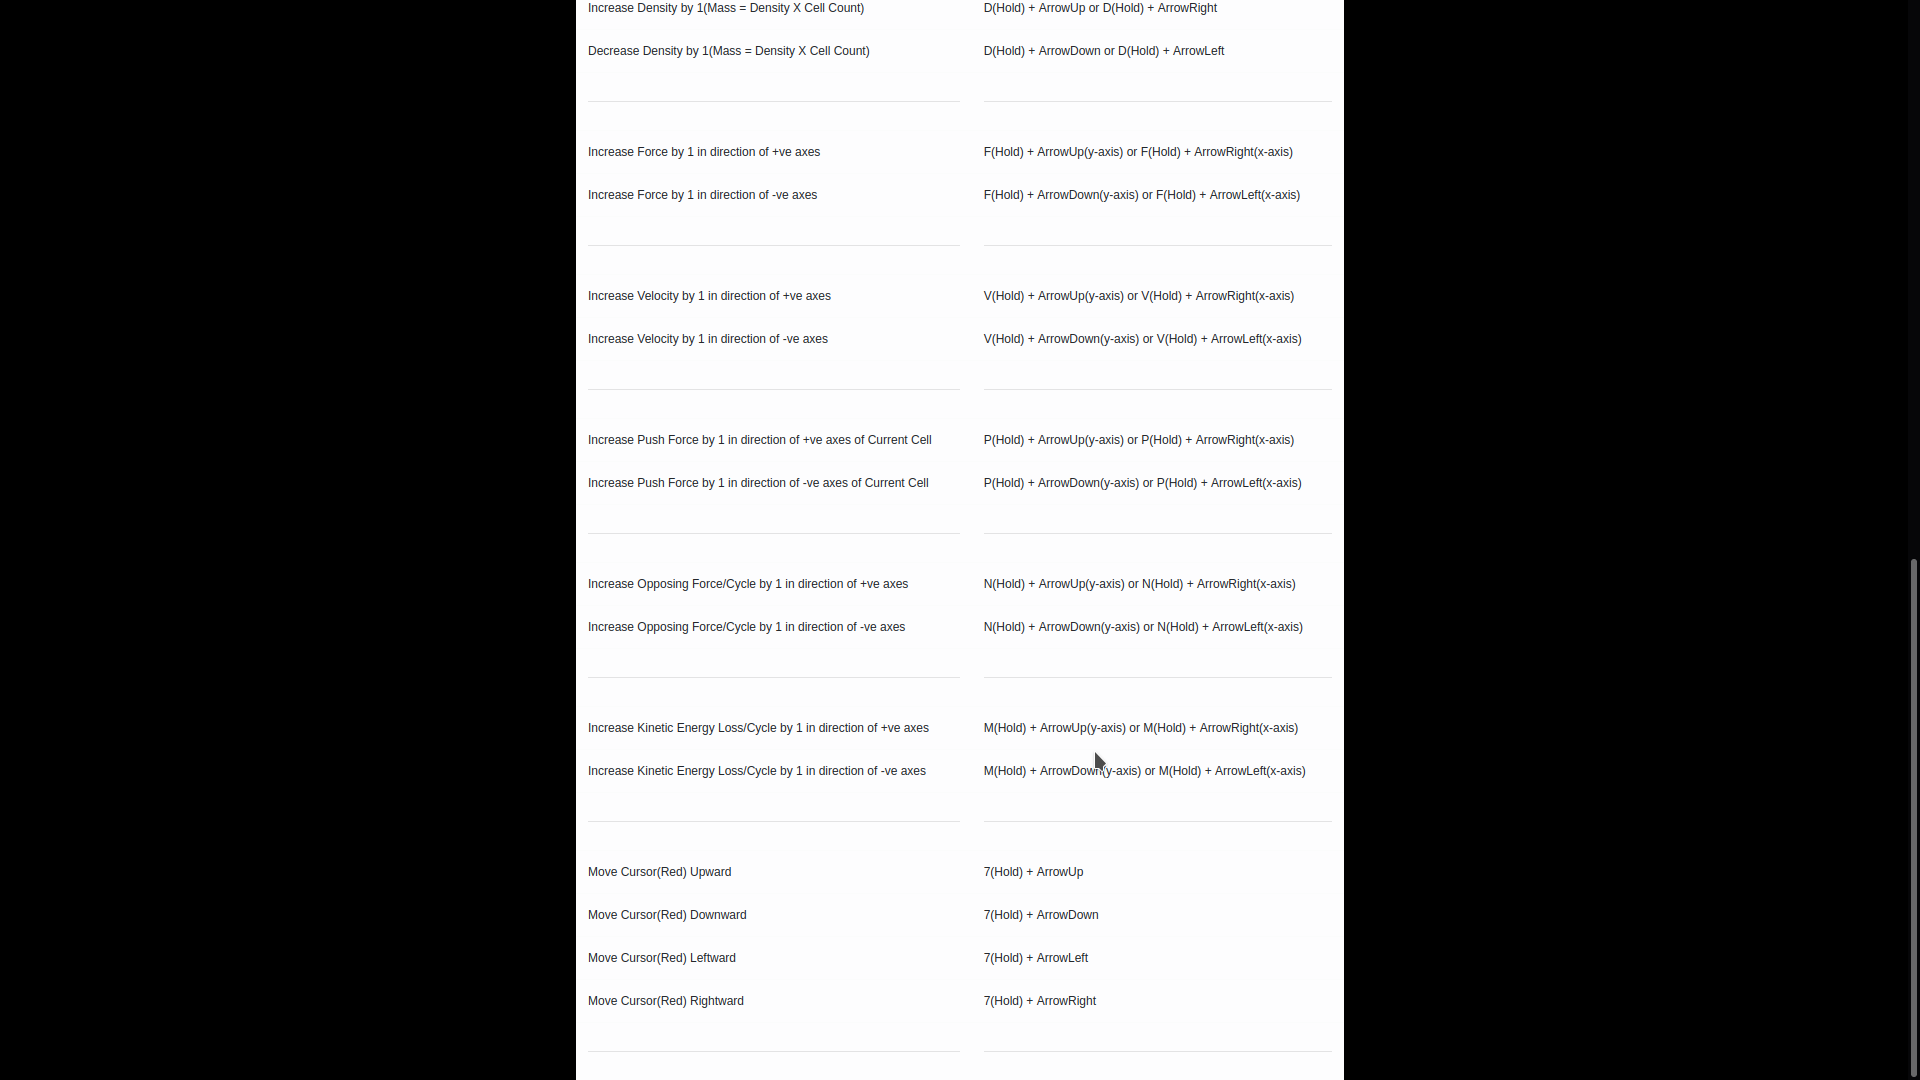
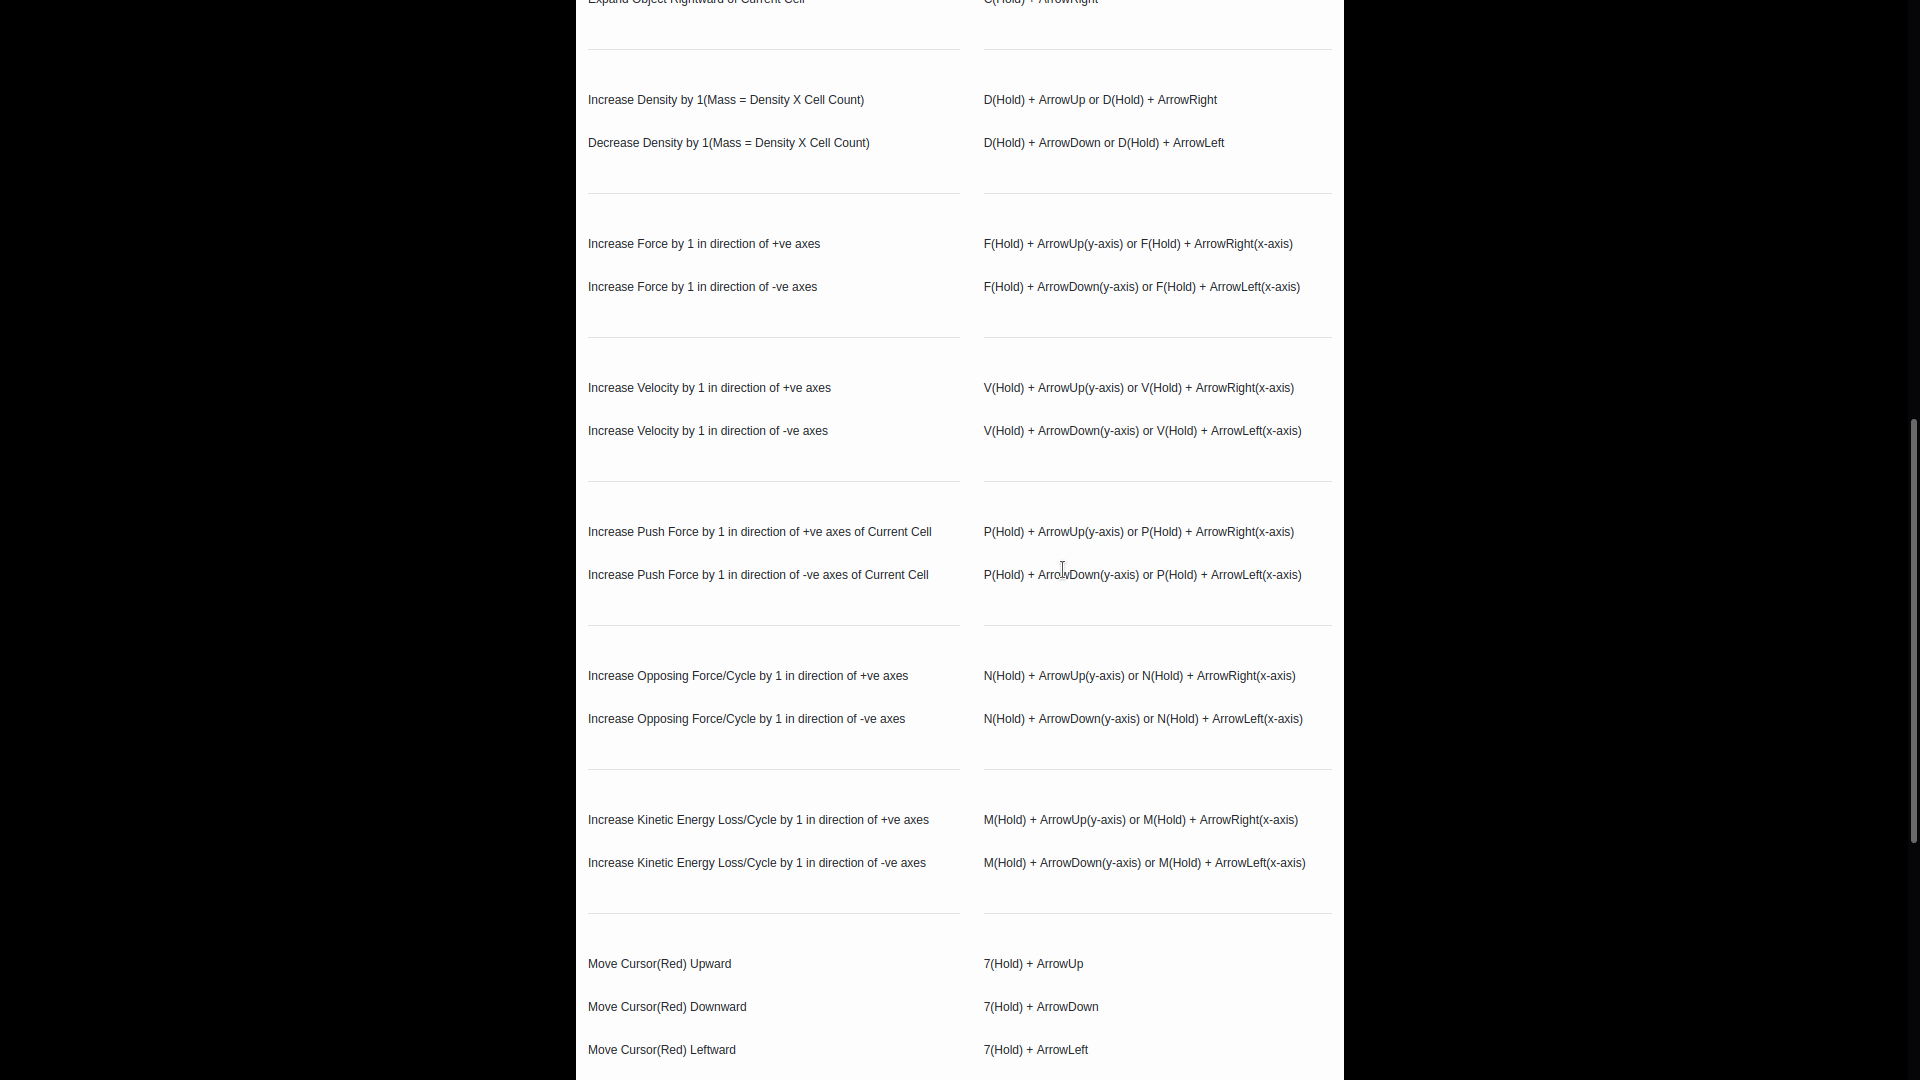
update

diff --git a/src/object.js b/src/object.js
@@ -176,13 +176,24 @@ var collisionBottom = (grid, objectList, key) => {
     objectList[grid[key].objectId].collisionList.bottom = collision
 }
 
-var addCell = (grid, objectId, futureKey, pushX, pushY, color) => {
+var addCell = (grid, objectId, futureKey, pushX, pushY, color, produce, destroy) => {
     if (grid[futureKey].color == "#000000") {
         grid[futureKey].color = color
         grid[futureKey].type = "object"
         grid[futureKey].objectId = objectId
+
         grid[futureKey].pushX = pushX
         grid[futureKey].pushY = pushY
+
+        grid[futureKey].produceLeft = produce.produceLeft
+        grid[futureKey].produceRight = produce.produceRight
+        grid[futureKey].produceTop = produce.produceTop
+        grid[futureKey].produceBottom = produce.produceBottom
+
+        grid[futureKey].destroyLeft = destroy.destroyLeft
+        grid[futureKey].destroyRight = destroy.destroyRight
+        grid[futureKey].destroyTop = destroy.destroyTop
+        grid[futureKey].destroyBottom = destroy.destroyBottom
     }
 }
 
@@ -190,8 +201,19 @@ var removeCell = (grid, currentKey) => {
     grid[currentKey].color = "#000000"
     grid[currentKey].type = "empty"
     grid[currentKey].objectId = "-1"
+
     grid[currentKey].pushX = 0
     grid[currentKey].pushY = 0
+
+    grid[currentKey].produceLeft = false
+    grid[currentKey].produceRight = false
+    grid[currentKey].produceTop = false
+    grid[currentKey].produceBottom = false
+
+    grid[currentKey].destroyLeft = false
+    grid[currentKey].destroyRight = false
+    grid[currentKey].destroyTop = false
+    grid[currentKey].destroyBottom = false
 }
 
 var forceLeft = (grid, objectList, key) => {
@@ -259,6 +281,8 @@ var moveLeft = (grid, objectList, key) => {
     var pushX = { "-1": "-1" }
     var pushY = { "-1": "-1" }
     var color = { "-1": "-1" }
+    var produce = { "-1": "-1" }
+    var destroy = { "-1": "-1" }
 
     objectList[objectId].cellList.map((cellKey) => {
         rowStart = computeCircularRow((Math.floor(parseInt(cellKey) / computeNumber)) * computeNumber)
@@ -269,13 +293,25 @@ var moveLeft = (grid, objectList, key) => {
         pushX[futureKey] = grid[cellKey].pushX
         pushY[futureKey] = grid[cellKey].pushY
         color[futureKey] = grid[cellKey].color
+        produce[futureKey] = {
+            produceLeft: grid[cellKey].produceLeft,
+            produceRight: grid[cellKey].produceRight,
+            produceTop: grid[cellKey].produceTop,
+            produceBottom: grid[cellKey].produceBottom,
+        }
+        destroy[futureKey] = {
+            destroyLeft: grid[cellKey].destroyLeft,
+            destroyRight: grid[cellKey].destroyRight,
+            destroyTop: grid[cellKey].destroyTop,
+            destroyBottom: grid[cellKey].destroyBottom,
+        }
         removeCell(grid, cellKey)
     })
 
     objectList[objectId].cellList = newCellList
   
     objectList[objectId].cellList.map((cellKey) => {
-        addCell(grid, objectId, cellKey, pushX[cellKey], pushY[cellKey], color[cellKey])
+        addCell(grid, objectId, cellKey, pushX[cellKey], pushY[cellKey], color[cellKey], produce[cellKey], destroy[cellKey])
     })
 
     delete objectList[key]
@@ -299,6 +335,8 @@ var moveRight = (grid, objectList, key) => {
     var pushX = { "-1": "-1" }
     var pushY = { "-1": "-1" }
     var color = { "-1": "-1" }
+    var produce = { "-1": "-1" }
+    var destroy = { "-1": "-1" }
 
     objectList[objectId].cellList.map((cellKey) => {
         rowStart = computeCircularRow((Math.floor(parseInt(cellKey) / computeNumber)) * computeNumber)
@@ -308,6 +346,18 @@ var moveRight = (grid, objectList, key) => {
         pushX[futureKey] = grid[cellKey].pushX
         pushY[futureKey] = grid[cellKey].pushY
         color[futureKey] = grid[cellKey].color
+        produce[futureKey] = {
+            produceLeft: grid[cellKey].produceLeft,
+            produceRight: grid[cellKey].produceRight,
+            produceTop: grid[cellKey].produceTop,
+            produceBottom: grid[cellKey].produceBottom,
+        }
+        destroy[futureKey] = {
+            destroyLeft: grid[cellKey].destroyLeft,
+            destroyRight: grid[cellKey].destroyRight,
+            destroyTop: grid[cellKey].destroyTop,
+            destroyBottom: grid[cellKey].destroyBottom,
+        }
         newCellList.push(futureKey)
         removeCell(grid, cellKey)
     })
@@ -315,7 +365,7 @@ var moveRight = (grid, objectList, key) => {
     objectList[objectId].cellList = newCellList
 
     objectList[objectId].cellList.map((cellKey) => {
-        addCell(grid, objectId, cellKey, pushX[cellKey], pushY[cellKey], color[cellKey])
+        addCell(grid, objectId, cellKey, pushX[cellKey], pushY[cellKey], color[cellKey], produce[cellKey], destroy[cellKey])
     })
 
     delete objectList[key]
@@ -339,6 +389,8 @@ var moveUp = (grid, objectList, key) => {
     var pushX = { "-1": "-1" }
     var pushY = { "-1": "-1" }
     var color = { "-1": "-1" }
+    var produce = { "-1": "-1" }
+    var destroy = { "-1": "-1" }
 
     objectList[objectId].cellList.map((cellKey) => {
         rowStart = computeCircularRow((Math.floor(parseInt(cellKey) / computeNumber)) * computeNumber - computeNumber)
@@ -348,6 +400,18 @@ var moveUp = (grid, objectList, key) => {
         pushX[futureKey] = grid[cellKey].pushX
         pushY[futureKey] = grid[cellKey].pushY
         color[futureKey] = grid[cellKey].color
+        produce[futureKey] = {
+            produceLeft: grid[cellKey].produceLeft,
+            produceRight: grid[cellKey].produceRight,
+            produceTop: grid[cellKey].produceTop,
+            produceBottom: grid[cellKey].produceBottom,
+        }
+        destroy[futureKey] = {
+            destroyLeft: grid[cellKey].destroyLeft,
+            destroyRight: grid[cellKey].destroyRight,
+            destroyTop: grid[cellKey].destroyTop,
+            destroyBottom: grid[cellKey].destroyBottom,
+        }
         newCellList.push(futureKey)
         removeCell(grid, cellKey)
     })
@@ -355,7 +419,7 @@ var moveUp = (grid, objectList, key) => {
     objectList[objectId].cellList = newCellList
 
     objectList[objectId].cellList.map((cellKey) => {
-        addCell(grid, objectId, cellKey, pushX[cellKey], pushY[cellKey], color[cellKey])
+        addCell(grid, objectId, cellKey, pushX[cellKey], pushY[cellKey], color[cellKey], produce[cellKey], destroy[cellKey])
     })
 
     delete objectList[key]
@@ -379,6 +443,8 @@ var moveDown = (grid, objectList, key) => {
     var pushX = { "-1": "-1" }
     var pushY = { "-1": "-1" }
     var color = { "-1": "-1" }
+    var produce = { "-1": "-1" }
+    var destroy = { "-1": "-1" }
 
     objectList[objectId].cellList.map((cellKey) => {
         rowStart = computeCircularRow((Math.floor(parseInt(cellKey) / computeNumber)) * computeNumber + computeNumber)
@@ -388,6 +454,18 @@ var moveDown = (grid, objectList, key) => {
         pushX[futureKey] = grid[cellKey].pushX
         pushY[futureKey] = grid[cellKey].pushY
         color[futureKey] = grid[cellKey].color
+        produce[futureKey] = {
+            produceLeft: grid[cellKey].produceLeft,
+            produceRight: grid[cellKey].produceRight,
+            produceTop: grid[cellKey].produceTop,
+            produceBottom: grid[cellKey].produceBottom,
+        }
+        destroy[futureKey] = {
+            destroyLeft: grid[cellKey].destroyLeft,
+            destroyRight: grid[cellKey].destroyRight,
+            destroyTop: grid[cellKey].destroyTop,
+            destroyBottom: grid[cellKey].destroyBottom,
+        }
         newCellList.push(futureKey)
         removeCell(grid, cellKey)
     })
@@ -395,7 +473,7 @@ var moveDown = (grid, objectList, key) => {
     objectList[objectId].cellList = newCellList
 
     objectList[objectId].cellList.map((cellKey) => {
-        addCell(grid, objectId, cellKey, pushX[cellKey], pushY[cellKey], color[cellKey])
+        addCell(grid, objectId, cellKey, pushX[cellKey], pushY[cellKey], color[cellKey], produce[cellKey], destroy[cellKey])
     })
 
     delete objectList[key]

diff --git a/src/app.js b/src/app.js
@@ -925,6 +925,40 @@ function App() {
             <td>7(Hold) + ArrowRight</td>
           </tr>
           <tr><td><hr></hr></td><td><hr></hr></td></tr>
+          <tr>
+            <td>Produce Upward Ability of Current Cell </td>
+            <td>X(Hold) + ArrowUp(Toggle)</td>
+          </tr>
+          <tr>
+            <td>Produce Downward Ability of Current Cell </td>
+            <td>X(Hold) + ArrowDown(Toggle)</td>
+          </tr>
+          <tr>
+            <td>Produce Leftward Ability of Current Cell </td>
+            <td>X(Hold) + ArrowLeft(Toggle)</td>
+          </tr>
+          <tr>
+            <td>Produce Rightward Ability of Current Cell </td>
+            <td>X(Hold) + ArrowRight(Toggle)</td>
+          </tr>
+          <tr><td><hr></hr></td><td><hr></hr></td></tr>
+          <tr>
+            <td>Destroy Upward Ability of Current Cell </td>
+            <td>Z(Hold) + ArrowUp(Toggle)</td>
+          </tr>
+          <tr>
+            <td>Destroy Downward Ability of Current Cell </td>
+            <td>Z(Hold) + ArrowDown(Toggle)</td>
+          </tr>
+          <tr>
+            <td>Destroy Leftward Ability of Current Cell </td>
+            <td>Z(Hold) + ArrowLeft(Toggle)</td>
+          </tr>
+          <tr>
+            <td>Destroy Rightward Ability of Current Cell </td>
+            <td>Z(Hold) + ArrowRight(Toggle)</td>
+          </tr>
+          <tr><td><hr></hr></td><td><hr></hr></td></tr>
         </tbody>
       </table>
     </div>

diff --git a/README.md b/README.md
@@ -17,6 +17,7 @@
 ## Key Control
 ![1](https://github.com/prskid1000/Pixel-Engine/blob/main/Preview/10.png?raw=true)
 ![1](https://github.com/prskid1000/Pixel-Engine/blob/main/Preview/11.png?raw=true)
+![1](https://github.com/prskid1000/Pixel-Engine/blob/main/Preview/12.png?raw=true)
 
 
 ## Example Scenes
